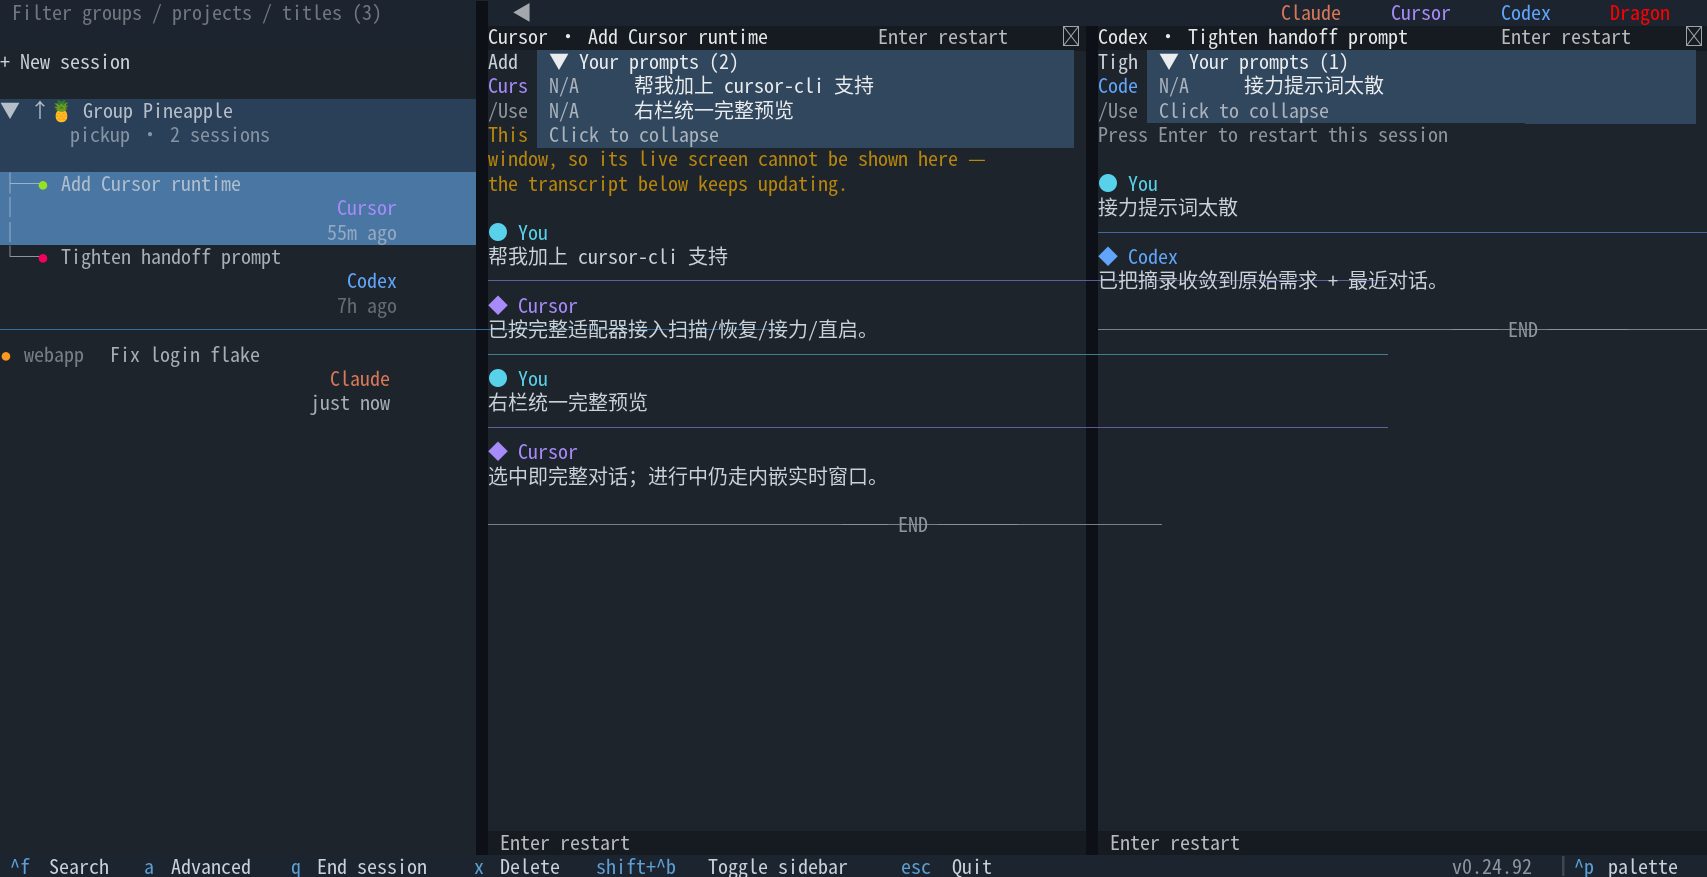
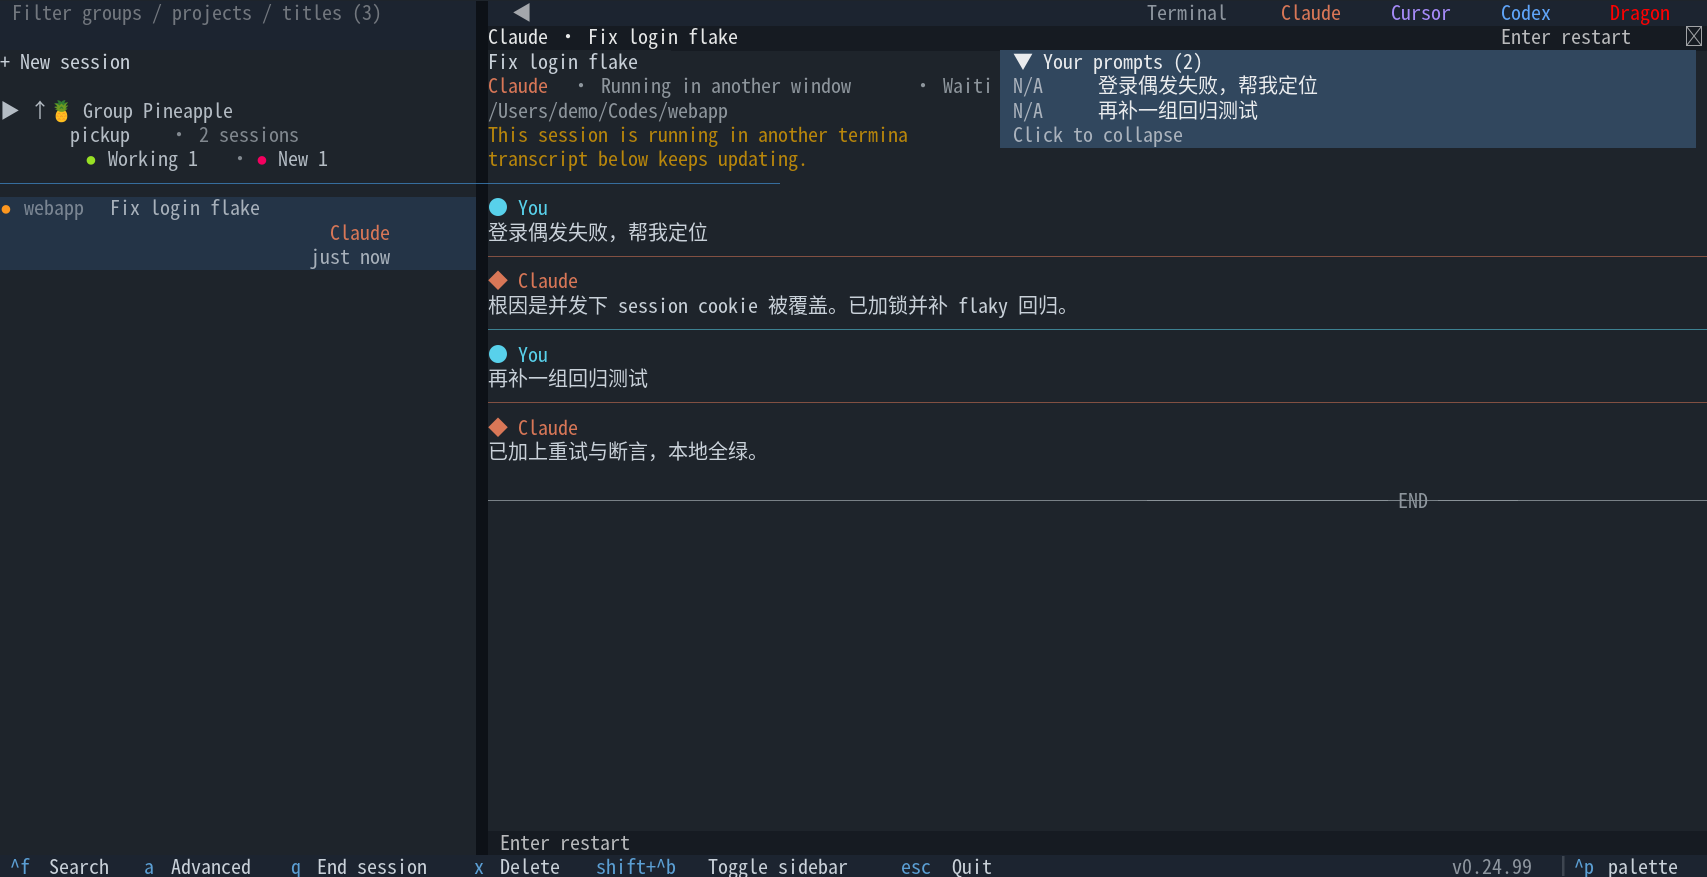
release: summarize collapsed group status

diff --git a/src/pickup/ui/session_list.py b/src/pickup/ui/session_list.py
@@ -408,17 +408,55 @@ class SessionGroupCard(Widget):
         self._render_signature = self._compute_signature()
 
     def _compute_signature(self) -> tuple:
-        # 组卡不展示时间，mtime 变化不必触发重绘；成员身份/数量变了才要刷新。
+        # 组卡不展示时间，mtime 变化不必触发重绘；收起时则要随成员关注状态更新。
         return (
             self.group.name,
             self.group.project_cwd,
             self.group.collapsed,
             self.pinned,
             tuple(
-                (session.get("source"), session.get("id"))
+                (
+                    session.get("source"),
+                    session.get("id"),
+                    session.get("attention_kind"),
+                )
                 for session in self.member_sessions
             ),
         )
+
+    def _collapsed_attention_summary(self, width: int, indent: str) -> Text:
+        """汇总收起组内仍需关注的会话，避免收起后把状态一起藏掉。"""
+        import pickup
+
+        statuses = (
+            ("waiting", "bold yellow", "group.attention_waiting"),
+            ("working", "bold green", "group.attention_working"),
+            ("unread", "bold red", "group.attention_unread"),
+        )
+        counts = {
+            kind: sum(
+                str(session.get("attention_kind") or "none") == kind
+                for session in self.member_sessions
+            )
+            for kind, _, _ in statuses
+        }
+        out = Text(indent)
+        has_status = False
+        for kind, style, label_key in statuses:
+            count = counts[kind]
+            if count == 0:
+                continue
+            if has_status:
+                out.append(" · ", style="dim")
+            out.append("●", style=style)
+            out.append(f" {t(label_key, count=count)}")
+            has_status = True
+        if not has_status:
+            count = len(self.member_sessions)
+            out.append(t("group.all_read", count=count), style="dim")
+        out.truncate(width, overflow="crop")
+        out.append(" " * max(0, width - pickup._text_width(out.plain)))
+        return out
 
     def apply_update(
         self,
@@ -462,8 +500,11 @@ class SessionGroupCard(Widget):
         count = len(self.member_sessions)
         count_key = "group.session_count_one" if count == 1 else "group.session_count"
         indent = " " * pickup._text_width(name_prefix)
-        summary = f"{indent}{project} · {t(count_key, count=count)}"
-        summary_cell = pickup._fit_cell(summary, width)
+        count_cell = f" · {t(count_key, count=count)}"
+        project_cell = pickup._fit_cell(
+            f"{indent}{project}",
+            max(1, width - pickup._text_width(count_cell)),
+        )
         title = title.rstrip()
         out = Text()
         if emoji and emoji in title:
@@ -477,11 +518,15 @@ class SessionGroupCard(Widget):
             out.append(title, style="bold")
         out.append(" " * max(0, width - pickup._text_width(title)))
         out.append("\n")
-        out.append(summary_cell.rstrip(), style="dim")
-        out.append(" " * max(0, width - pickup._text_width(summary_cell.rstrip())))
+        out.append(project_cell.rstrip(), style="bold")
+        out.append(count_cell.rstrip(), style="dim")
+        out.append(" " * max(0, width - pickup._text_width(project_cell.rstrip() + count_cell.rstrip())))
         out.append("\n")
-        # 第三行留白占位，高度仍是 3，与会话卡对齐；时间只在成员卡上显示。
-        out.append(" " * width)
+        # 收起后成员卡不可见，第三行改为状态汇总；展开时仍留白，避免与成员卡重复。
+        if self.group.collapsed:
+            out.append_text(self._collapsed_attention_summary(width, indent))
+        else:
+            out.append(" " * width)
         return out
 
 

diff --git a/tests/test_ui.py b/tests/test_ui.py
@@ -1759,13 +1759,14 @@ class SessionGroupSidebarTests(unittest.IsolatedAsyncioTestCase):
         app = PickupApp(store, embed_ok=False)
         return store, app
 
-    async def test_group_card_has_three_lines_without_attention_dot(self) -> None:
+    async def test_collapsed_group_card_summarizes_member_attention(self) -> None:
         store, app = await self._grouped_app()
         async with app.run_test(size=(100, 30)) as pilot:
             await pilot.pause(delay=0.2)
             list_view = app.screen.query_one(SessionListView)
             sessions = store.all_sessions()
             sessions[0]["attention_kind"] = "working"
+            sessions[1]["attention_kind"] = "waiting"
             keys = [pickup.session_key(session) for session in sessions[:2]]
             list_view.on_layout_change(lambda s: s.set_group("/tmp", keys, focus_key=keys[0]))
             await list_view.rebuild()
@@ -1778,7 +1779,7 @@ class SessionGroupSidebarTests(unittest.IsolatedAsyncioTestCase):
             emoji = _split_layout.group_emoji(group_cards[0].group.name)
             self.assertTrue(emoji, "水果组名必须能取到对应 emoji")
             self.assertTrue(group_text.startswith(f"▼ {emoji} Group "))
-            self.assertNotIn("●", group_text, "会话组标题不能重复显示会话状态圆点")
+            self.assertNotIn("●", lines[0], "会话组标题不能重复显示会话状态圆点")
             # 第二行项目名与第一行 Group 文字同列起笔（按终端显示宽度比较，
             # emoji 是宽字符：1 个 Python 字符占 2 格，不能直接比字符下标）。
             from rich.cells import cell_len
@@ -1786,9 +1787,13 @@ class SessionGroupSidebarTests(unittest.IsolatedAsyncioTestCase):
             group_col = cell_len(lines[0][: lines[0].index("Group")])
             tmp_col = cell_len(lines[1][: lines[1].find("tmp")])
             self.assertEqual(tmp_col, group_col)
-            # 第三行留白：成员卡已有时间，组卡不再重复「多久以前」。
+            # 展开时成员卡自己表达状态，组卡第三行继续留白。
             self.assertEqual(lines[2].strip(), "")
-            self.assertNotRegex(lines[2], r"\d")
+
+            group_cards[0].group.collapsed = True
+            collapsed_lines = group_cards[0].render().plain.splitlines()
+            self.assertIn("● Waiting 1", collapsed_lines[2])
+            self.assertIn("● Working 1", collapsed_lines[2])
 
             child_cards = [
                 card

diff --git a/src/pickup/i18n.py b/src/pickup/i18n.py
@@ -298,6 +298,22 @@ _MESSAGES: dict[str, dict[str, str]] = {
         "en": "1 session",
         "zh": "1 个会话",
     },
+    "group.attention_waiting": {
+        "en": "Waiting {count}",
+        "zh": "等待 {count}",
+    },
+    "group.attention_working": {
+        "en": "Working {count}",
+        "zh": "执行中 {count}",
+    },
+    "group.attention_unread": {
+        "en": "New {count}",
+        "zh": "新结果 {count}",
+    },
+    "group.all_read": {
+        "en": "{count} read",
+        "zh": "{count} 个已读",
+    },
     "pin.enabled": {
         "en": "Pinned to top",
         "zh": "已置顶",

diff --git a/docs/screenshots/capture.py b/docs/screenshots/capture.py
@@ -420,7 +420,10 @@ async def _capture() -> None:
             )
             group_id = seed.get_group(keys[0]).group_id
             split_layout.default_layout_db().apply(
-                lambda store: setattr(store.groups[group_id], "name", "Group Pineapple")
+                lambda store: (
+                    setattr(store.groups[group_id], "name", "Group Pineapple"),
+                    setattr(store.groups[group_id], "collapsed", True),
+                )
             )
             split_layout.default_layout_db().toggle_group_pin(group_id)
             split_layout.reset_default_layout_db()

diff --git a/src/pickup/__init__.py b/src/pickup/__init__.py
@@ -17,7 +17,7 @@ import sys as sys
 # 回归用例全挂正是这么来的。包顶层是唯一「任何用法都必经」的位置。
 os.environ.setdefault("TEXTUAL_DISABLE_KITTY_KEY", "1")
 
-__version__ = "0.24.98"
+__version__ = "0.24.99"
 
 _MODULE_EXPORTS = {
     "embed", "keepalive", "titles", "updater", "split_layout", "observe", "theme", "search",

diff --git a/docs/TERMINAL_UI_KNOWLEDGE_BASE.md b/docs/TERMINAL_UI_KNOWLEDGE_BASE.md
@@ -155,7 +155,7 @@ stateDiagram-v2
 ### 侧边栏会话组与置顶
 
 - 两到四个会话以分屏打开后立即形成会话组；组名在创建时从水果表随机生成，例如 `Group Apple`、`Group Pineapple`，之后保持不变。未置顶区的组与独立会话顺序跟 `SessionStore` 稳定顺序走——进入 pickup 后已有项位置固定，不会因成员 mtime 更新而上下飘；**新出现**的会话仍由 store 插到最前（可把更旧的组顶下去）。只有按 `p` 置顶的组/会话才固定在最上。
-- 组卡固定三行（与会话卡同高）：第一行只有 `▼/▶ + 可选置顶标记 + 组名`，**没有关注圆点**；第二行是项目与成员数（与第一行 `Group …` **同列左对齐**，不靠右）；第三行**留白**——成员卡已各自显示时间，组卡不再重复。关注圆点只画在缩进的会话子项上。
+- 组卡固定三行（与会话卡同高）：第一行只有 `▼/▶ + 可选置顶标记 + 组名`，**没有关注圆点**；第二行是项目与成员数（与第一行 `Group …` **同列左对齐**，不靠右），其中**项目名与组名同为粗体**，成员数保持弱化；展开时第三行留白——成员卡各自表达状态和时间。收起时第三行改为组内关注状态汇总：按「等待回答黄 → 执行中绿 → 新结果红」固定顺序显示彩色圆点、短标签与数量；若全组都已读则显示已读会话数。汇总只做信息展示，点击语义和成员自身状态不变。
 - 展开后成员以贴侧栏左缘的半角框线 `├─ `/`└─ `（续行同列 `│  `，总宽 3 列、无前导空格）连接，并从顶层列表摘除，禁止同一会话同时出现两份。必须整套半角框线——混用全角 `｜`/`－` 会和 `├` 错列，三行卡片之间竖线断开。树线用 `$foreground 80%`（与卡片基础色同亮），**不用**终端 `dim`。组内子项首行只显示「可选圆点 + 标题」，**不再重复项目名**（项目已写在组卡第二行）。组卡上按 `Space` 或点击三角可收起/展开；搜索组名时即使原先收起，也临时展示全部成员。
 - 分屏高亮只落在**当前会话组标题**和**当前激活的子会话**上；其余组员不再整块铺底。光标落到这两类高亮项上时，仍要使用更重一档的合成色。**光标停在组卡本身时只高亮组标题，不标任何子会话**（点组卡是在看整组，不是选中某一个成员）。
 - `p` 切换置顶：独立会话可单独置顶，会话组只能整体置顶，组内单个成员不能脱离组单独置顶。置顶块排在普通会话组之前，多个置顶项按最近置顶时间排序；组卡与子项始终是不可拆散的一块。**置顶块与未置顶块都非空时**，中间插入一行 `$primary` 冷蓝横线（`PinSeparatorCard`，高 1、无文案、`disabled`，键盘 ↑↓ 跳过；无置顶或筛完只剩置顶时不画）。置顶已有 `↑`，分隔线不写「其他」之类标签，避免把下方会话说成次要。
